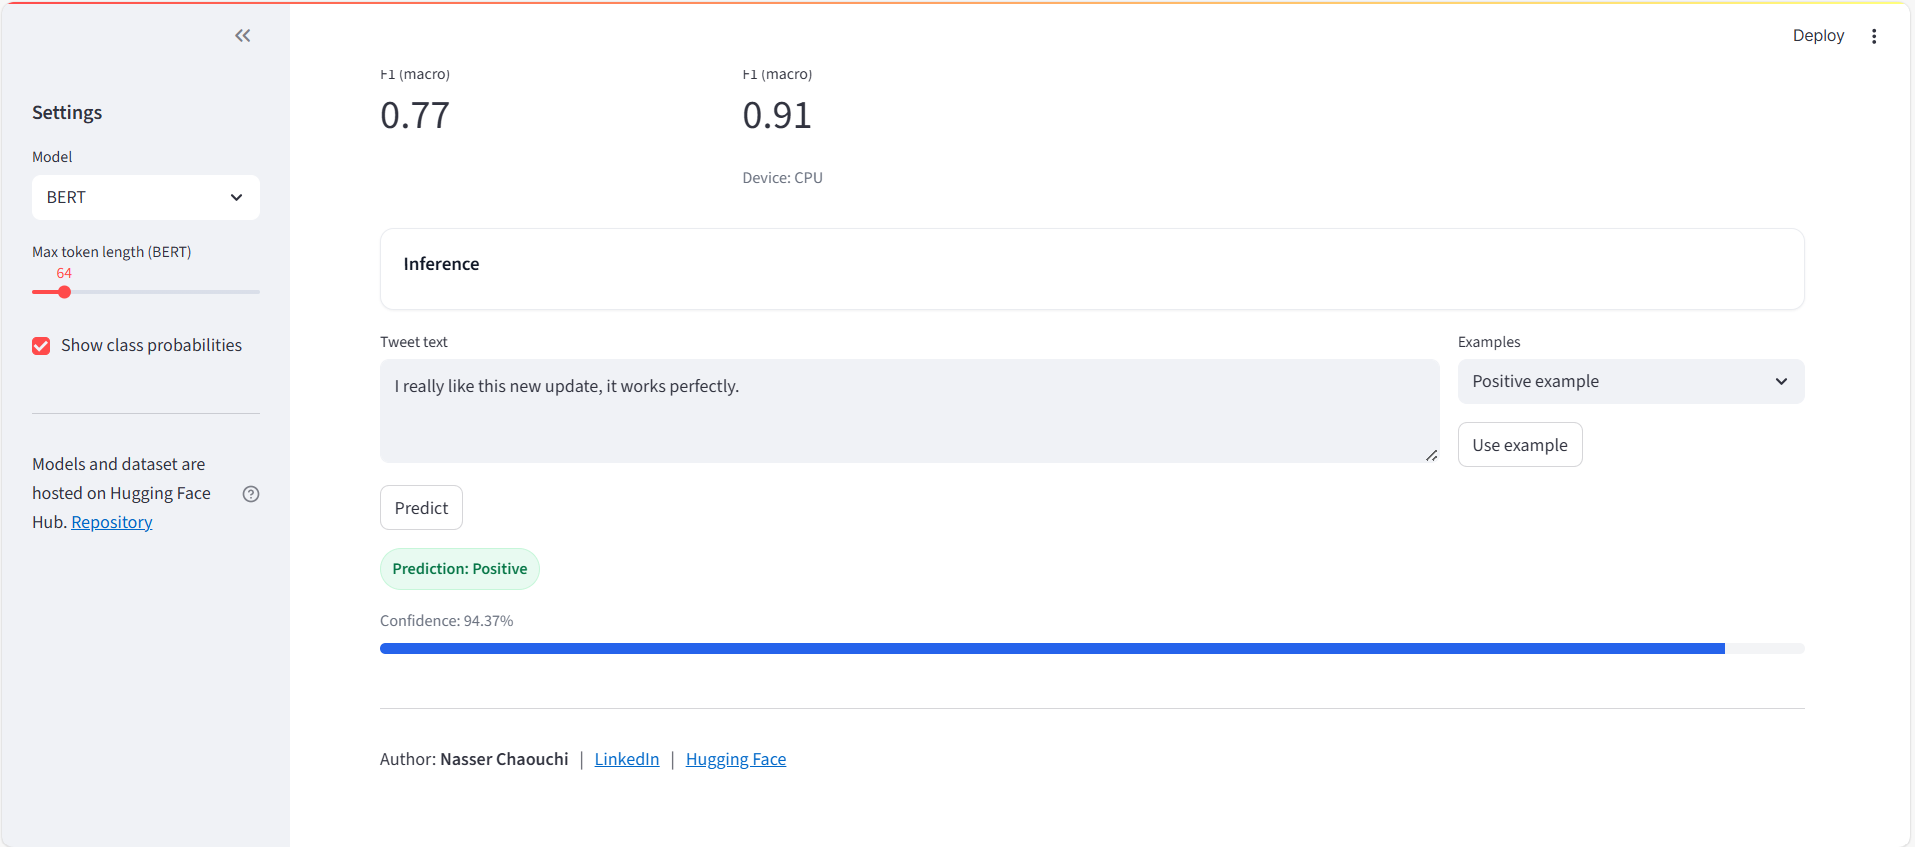
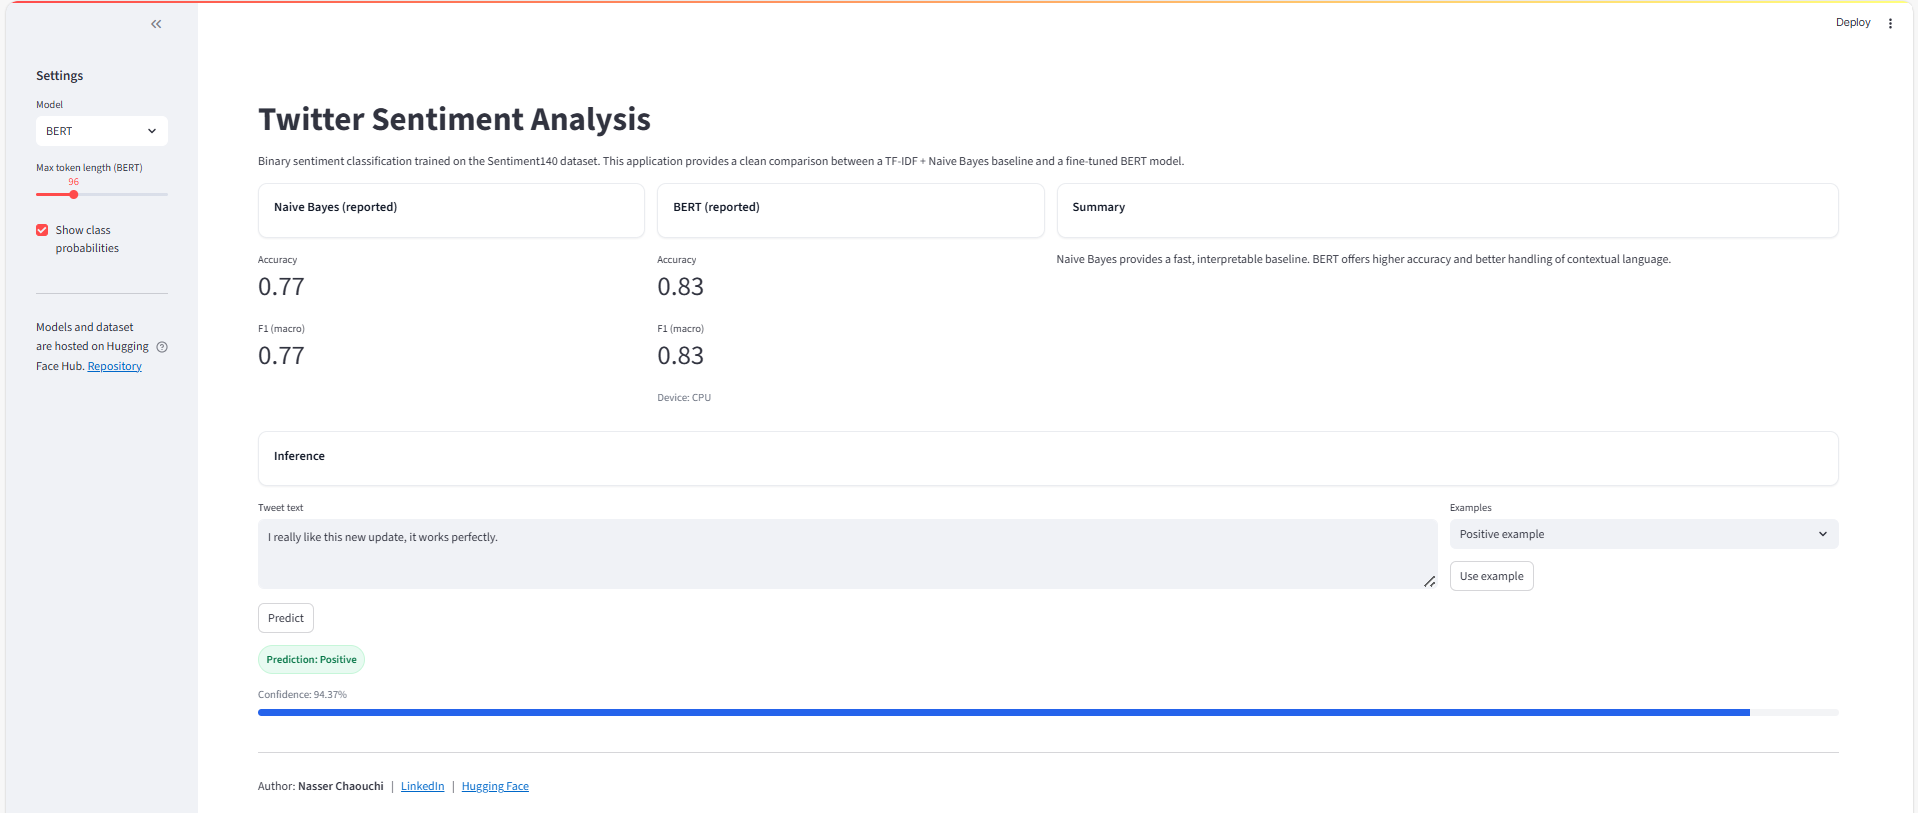
update files

diff --git a/app.py b/app.py
@@ -126,8 +126,8 @@ st.markdown(
 
 reported = pd.DataFrame({
     "Model": ["TF-IDF + Naive Bayes", "BERT (fine-tuned)"],
-    "Accuracy": [0.78, 0.91],
-    "F1 (macro)": [0.77, 0.91]
+    "Accuracy": [0.77, 0.83],
+    "F1 (macro)": [0.77, 0.83]
 })
 
 c1, c2, c3 = st.columns([1, 1, 2])

diff --git a/README.md b/README.md
@@ -23,6 +23,8 @@ Here is a preview of the application interface:
 
 ![Streamlit Interface](images/Interface_Screenshot.png)
 
+You can access the live application [here](https://twittersentimentanalysis-cfhbucvitpghzvnwxt38vi.streamlit.app/).
+
 
 ## Project Structure
 
@@ -77,7 +79,7 @@ Two different approaches were tested:
 - Lower accuracy  
 
 ### BERT Fine-tuned (state-of-the-art)
-- High accuracy (~91%)  
+- High accuracy (~83%)  
 - Handles context & semantics  
 - Hosted as `bert_sentiment_model` on Hugging Face  
 - Requires GPU for efficient training  
@@ -87,12 +89,12 @@ Two different approaches were tested:
 ## Performance Summary
 
 ### Naive Bayes (Baseline)
-- **Accuracy**: ~78%  
+- **Accuracy**: ~77%  
 - **Macro F1-score**: ~0.77  
 
 ### BERT Fine-tuned
-- **Accuracy**: ~90–92%  
-- **Macro F1-score**: ~0.91  
+- **Accuracy**: ~83%  
+- **Macro F1-score**: ~83 
 - Handles ambiguous tweets far better than Naive Bayes  
 
 ---
